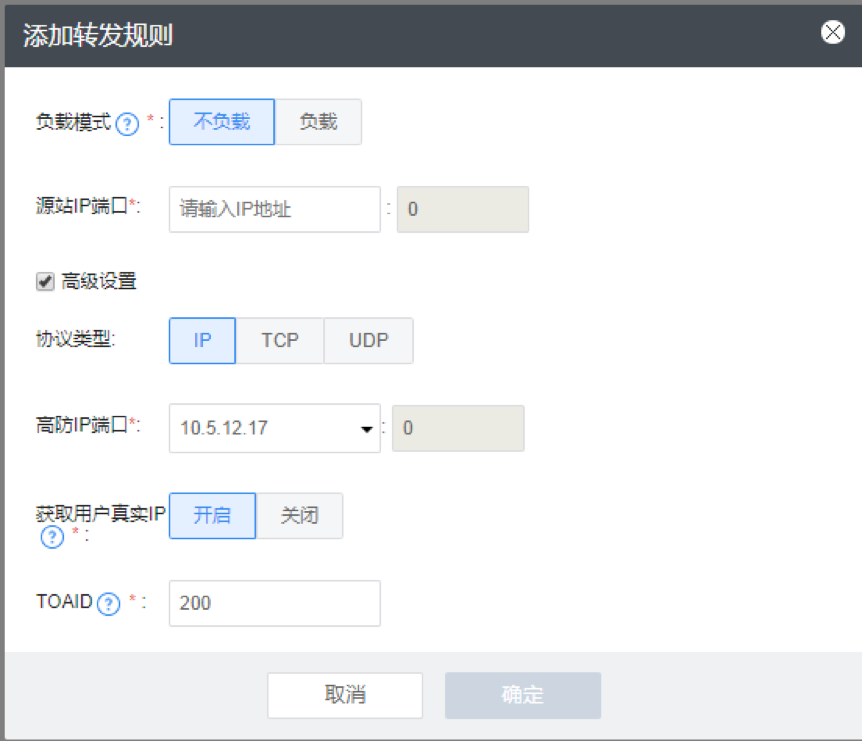
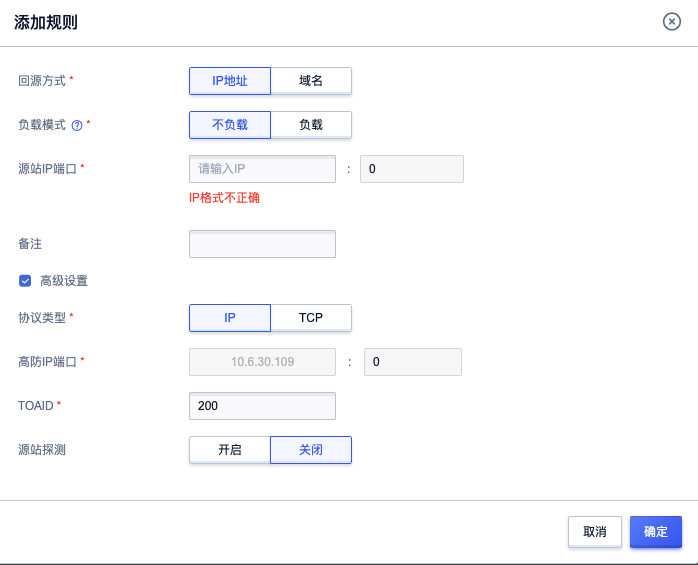
增加域名回源说明

diff --git a/uads/opintro/addrules.md b/uads/opintro/addrules.md
@@ -1,6 +1,6 @@
 
 
-# 1.3 添加转发规则（杭州BGP高防）
+# 1.3 添加转发规则（杭州|枣庄BGP高防）
 ##  添加域名转发规则
 购买高防-\>选择“华东BGP 杭州”线路高防-\>购买成功-\>详情-\>IP管理-\>管理。
 配置[域名转发策略、CC防护规则](https://docs.ucloud.cn/uewaf/features/rule/UWAF_rule).
@@ -14,10 +14,21 @@
 
 ![](/images/uads/opintro/添加转发规则.png)
 
+**回源模式:**
+
+  - IP地址：源站以IP形式。
+  - 域名：源站以域名形式, 域名需能正常解析到IP地址。
+
+  注意: 
+  只有枣庄BGP高防同时支持两种回源模式，其他高防只支持IP地址回源模式
+
 **负载模式:**
 
-  - 不负载：高防IP+端口对应源站IP+端口进行转发。最多可配置50条转发策略。
-  - 负载：将访问到高防IP+端口的流量在源站池中进行轮询负载。一个IP可配置2条负载策略，每个策略最多可以配置31个源站。
+  - 不负载：高防IP+端口对应源站IP+端口进行转发。
+    - IP地址回源: 一个高防IP最多可配置1条IP不负载转发规则或者50条TCP不负载转发规则，每条不负载转发规则最多可配置1个源站。
+  - 负载：将访问到高防IP+端口的流量在源站池中进行轮询负载。
+    - IP地址回源: 一个高防IP最多可配置10条IP/TCP负载转发规则，每条负载转发规则最多可配置31个源站。
+    - 域名回源: 一个高防IP最多可配置10条IP/TCP负载转发规则，每条负载转发规则最多可以配置8个源站。
 
 **源站IP端口：** 真实业务服务器的IP和端口，支持非UCloud平台的主机。建议使用一个未曾使用过的源站IP接入高防，避免之前的源站IP暴露导致黑客绕过高防直接攻击源站。
 
@@ -28,10 +39,7 @@
   - IP：高防IP和源站IP进行一对一的IP转发。
   - TCP：高防IP和源站IP进行TCP端口转发。
 
-高防IP端口:需要对外提供服务的高防IP和端口。如有有多个高防IP可通过下拉框选择。
-
-获取用户真实IP：关闭后源站上看到的客户端源地址为高防回源地址。开启后高防转发设备会将用户的真实IP地址封装到TCP
-option中，源站可通过安装TOA模块获取。
+高防IP端口:对外提供服务的高防IP和端口。
 
 TOAID:源站TOA模块将根据此ID通过TCP option获取用户真实IP。UCloud提供的TOA模块默认值是200。
 
